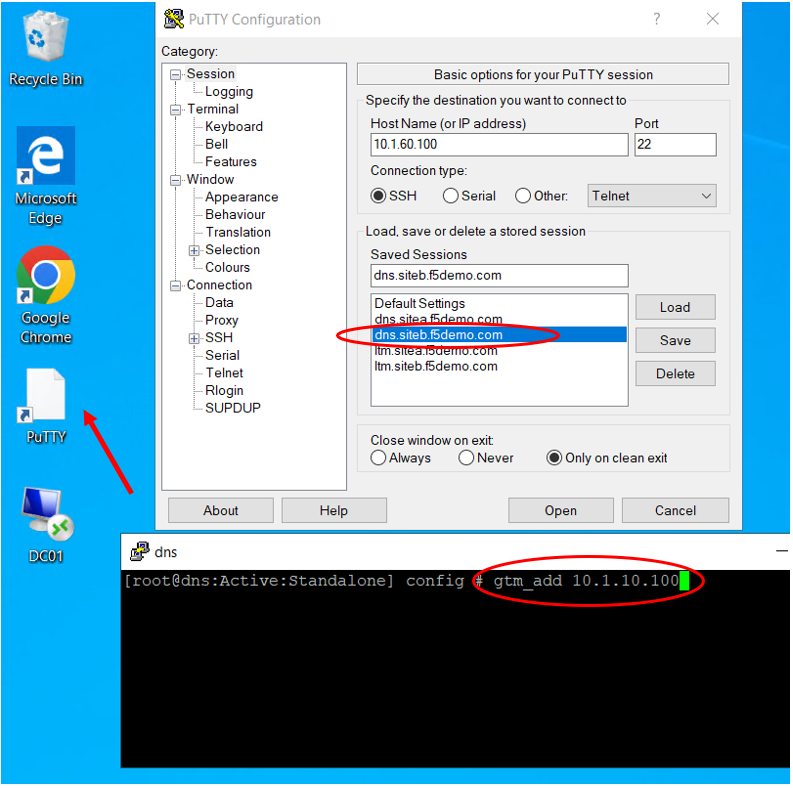
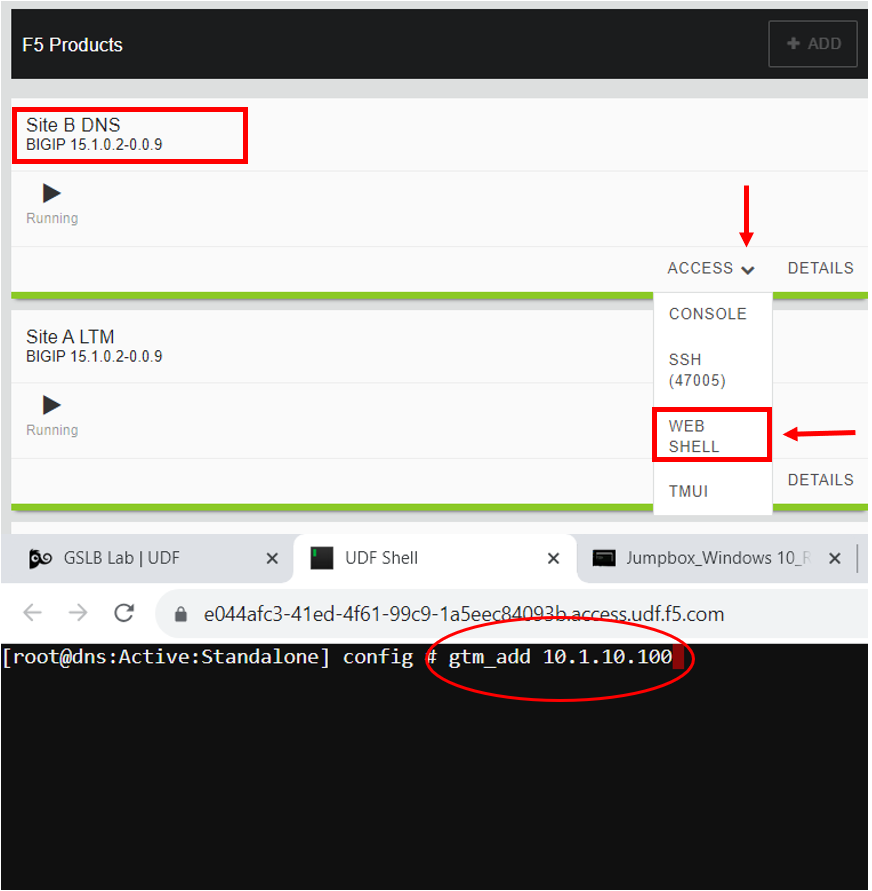
Edited verbiage

diff --git a/docs/class1/module3/lab2.rst b/docs/class1/module3/lab2.rst
@@ -6,7 +6,17 @@ A mesh of F5 DNS servers need to exchange keys to establish a trusted mechanism 
 .. image:: /_static/class1/establish_trust.png
    :width: 800
 
-Launch Putty and login to dns.sitea.f5demo.com
+Launch WebRDP "Guacomole" and login (username : user password : user)
+
+.. image:: /_static/class1/system_webrdp.PNG
+   :width: 800
+
+Expand Jumpbox_Windows10_RDP & double-click on Jumpbox_Windows10_RDP
+
+.. image:: /_static/class1/jumpbox_windows10.PNG
+   :width: 800
+
+Launch Putty and login to dns.sitea.f5demo.com (username : root & password : default)
 
 Run the following command:
 

diff --git a/docs/class1/module2/lab5.rst b/docs/class1/module2/lab5.rst
@@ -16,7 +16,7 @@ Create a UDP listener according to the following table:
    :header: "Setting", "dns.sitea", "dns.siteb"
    :widths: 6, 10, 10
 
-   "Name", "dns_site1_ns1.f5demo.com_udp_53_virtual", "dns_siteb_ns2.f5demo.com_udp_53_virtual"
+   "Name", "dns_sitea_ns1.f5demo.com_udp_53_virtual", "dns_siteb_ns2.f5demo.com_udp_53_virtual"
    "Destination", "10.1.10.101", "10.1.60.101"
    "Protocol Profile (Client)", "f5demo.com_udp-dns_profile", "f5demo.com_udp-dns_profile"
    "DNS Profile", "f5demo.com_dns_profile", "f5demo.com_dns_profile"

diff --git a/docs/class1/module2/lab1.rst b/docs/class1/module2/lab1.rst
@@ -30,7 +30,7 @@ Configure DNS query and response logging. Create a "Log Publisher", and a "Loggi
    
    .. admonition:: TMSH
 
-      tmsh create sys log-config publisher local-syslog-publisher { destinations { local-syslog { } } }
+      tmsh create sys log-config publisher local-syslog-publisher { destinations add { local-syslog { } } }
 
 #. Navigate to: **DNS > Delivery > Profiles > Other > DNS Logging: Create**
 

diff --git a/docs/class1/module3/lab3.rst b/docs/class1/module3/lab3.rst
@@ -5,7 +5,7 @@ After the BIG-IP DNS server in datacenter B is joined to the sync group, adminis
 
 Changes will be automatically replicated across all F5 DNS servers.
 
-Launch Putty and log in to dns.siteb
+Launch WEB SHELL and log in to dns.siteb
 
 Run the following command: Enter the password "default" when prompted.
 

diff --git a/docs/class1/module2/lab4.rst b/docs/class1/module2/lab4.rst
@@ -26,7 +26,7 @@ Create a new TCP profile as shown in the following table.
 
 .. https://gtm1.site2.example.com/tmui/Control/jspmap/tmui/dns/profile/tcp/create.jsp
 
-TMSH Command for both gtm1.site and gtm1.site2:
+TMSH Command for both dns.sitea and dns.siteb:
 
 .. admonition:: TMSH
 
